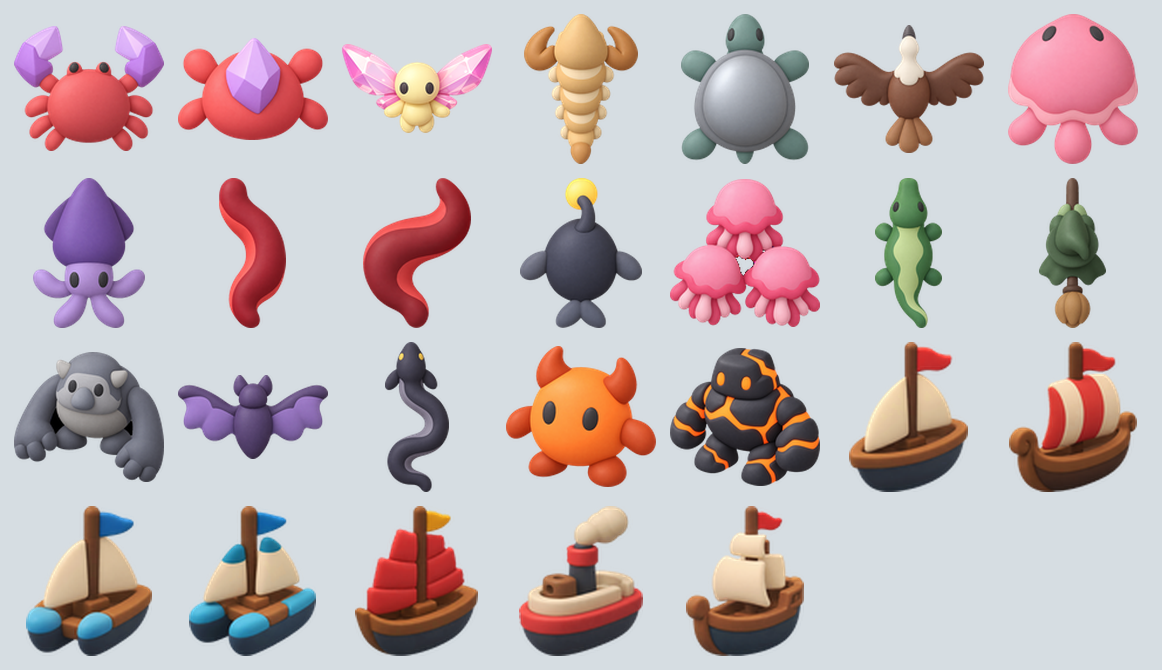
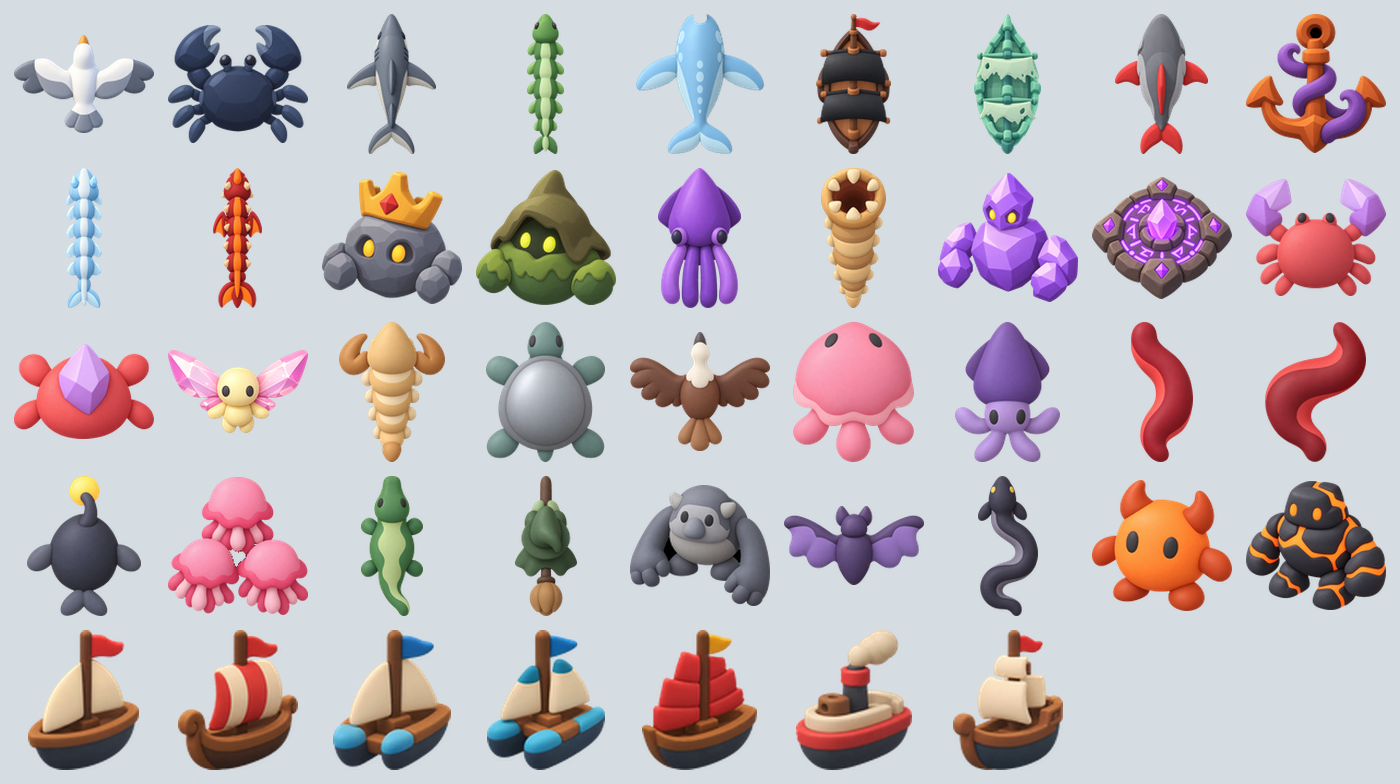
Art: G1/G3/G5, A1 redo, first props for six biomes; baseline sheets rebuilt
Claude-Session: https://claude.ai/code/session_01FCp3PwgtusK1H34abZ7FvQ

diff --git a/tools/art-inventory/inv_template.html b/tools/art-inventory/inv_template.html
@@ -704,8 +704,7 @@ One image with 5 views of the same ship in a row, same size, evenly spaced, not 
 const BATCHES = [
  ['A', 'Bosses (A1-A12 done; flying wyrm left)', 'high', [
   'A6b The Caldera Wyrm, flying (TOP-DOWN): the same wyrm seen from directly above, body straight, two big bat wings spread flat out to the sides at their widest'], 'unique'],
- ['G', 'Creatures (G10-G28 done; G1-G4 done; these 5 left)', 'high', [
-  'G5 Frost Narwhal (TOP-DOWN): a pale blue whale seen from directly above: a smooth bean body, one long straight white tusk pointing out of the top, two flippers out to the sides, a tail fluke at the bottom',
+ ['G', 'Creatures (G1-G5, G10-G28 done; these 4 left)', 'high', [
   'G6 Ice Golem (FRONT): a squat golem built from big pale blue ice blocks: one body block, one head block, two block fists, two small dark eyes',
   'G7 Frost Wisp (FRONT): a round pale blue flame with a curling tip and two dark eyes',
   'G8 Siren (FRONT): a mermaid sitting on a round grey rock, long teal hair, her green tail curled round the rock',
@@ -897,32 +896,25 @@ const BATCHES = [
   'Q13 Lightning bolt (FLAT): one chunky yellow zigzag bolt from top to bottom',
   'Q14 Wind streak (3-SLICE): a long thin white wind line, curled into a small loop at the right end (gales)',
   'Q15 Wave crest (3-SLICE): a long chunky white-and-blue wave crest, plain along its length, curled over at both ends (rogue wave)'], 'kit'],
- ['P', 'Island props (P1-P4 done)', 'medium', [
-  'P5a Volcanic prop (FRONT): a charred black tree stump',
+ ['P', 'Island props (P1-P4 done, plus P5a P6a P7a P8b P9a P10a P11a)', 'medium', [
   'P5b Volcanic prop (FRONT): a black rock with bright orange cracks',
   'P5c Volcanic prop (FRONT): a plain black boulder',
   'P5d Volcanic prop (FRONT): a small grey smoke vent',
-  'P6a Caverns prop (FRONT): a stalagmite',
   'P6b Caverns prop (FRONT): a cluster of three mushrooms with bright cyan caps',
   'P6c Caverns prop (FRONT): a bright teal coral',
   'P6d Caverns prop (FRONT): a purple boulder',
-  'P7a Mangrove prop (FRONT): a mangrove tree on stilt roots',
   'P7b Mangrove prop (FRONT): a round lily pad with one flower',
   'P7c Mangrove prop (FRONT): a reed clump',
   'P7d Mangrove prop (FRONT): a mossy log',
   'P8a Abyss prop (FRONT): a clump of red-tipped tube worms',
-  'P8b Abyss prop (FRONT): an anemone',
   'P8c Abyss prop (FRONT): a dark navy boulder',
   'P8d Abyss prop (FRONT): a tall bright pink sea fan',
-  'P9a Bone Sands prop (FRONT): a round cactus with two arms',
   'P9b Bone Sands prop (FRONT): a pair of curved rib bones sticking up',
   'P9c Bone Sands prop (FRONT): a small skull',
   'P9d Bone Sands prop (FRONT): a sandstone rock',
-  'P10a Crystal prop (FRONT): a cluster of lilac crystals',
   'P10b Crystal prop (FRONT): a pink boulder',
   'P10c Crystal prop (FRONT): a round lilac shrub',
   'P10d Crystal prop (FRONT): one tall crystal shard',
-  'P11a Harbour prop (FRONT): a short wooden jetty with a lantern post',
   'P11b Harbour prop (FRONT): a grey rock cluster',
   'P11c Harbour prop (FRONT): a red buoy',
   'P11d Harbour prop (FRONT): a green buoy',

diff --git a/tools/art-inventory/build_inv.py b/tools/art-inventory/build_inv.py
@@ -93,7 +93,7 @@ SIMPLE={'Sea-glass gem (1 XP)','Sea-glass gem (5 XP)','Sea-glass gem (25 XP)','A
  'Charm Shrine','Tower Yard','Shipyard','Armory','Workshop','Faction Hall',
  'Crystal Crab','Shard Crab','Prism Sprite','Sand Wyrm','Mirror Tortoise','Bone Vulture','Drift Jelly','Ink Squid','Bog Leech','Leech Swarm',
  'Anglerfish','Jelly Bloom','Bayou Gator','Bog Witch','Deep Troll','Cave Bat','Cave Bats','Stalker Eel','Ember Imp','Magma Golem',
- 'Black Gale','The Black Gale','Drowned Admiral','The Drowned Admiral','Bloodfin Matriarch','The Bloodfin Matriarch',"Kraken's Anchor","The Kraken's Anchor",'Frost Leviathan','The Frost Leviathan','Caldera Wyrm','The Caldera Wyrm','Hollow King','The Hollow King','Old Mother Mire','The Old Mother Mire','Deep Mother','The Deep Mother','Dunemaw','The Dunemaw','Prism Colossus','The Prism Colossus','Warding Seal','The Warding Seal','Gullswarm Harpy','The Gullswarm Harpy','Deep Crawler','The Deep Crawler','Reef Shark','The Reef Shark','Sea Serpent','The Sea Serpent'}
+ 'Black Gale','The Black Gale','Drowned Admiral','The Drowned Admiral','Bloodfin Matriarch','The Bloodfin Matriarch',"Kraken's Anchor","The Kraken's Anchor",'Frost Leviathan','The Frost Leviathan','Caldera Wyrm','The Caldera Wyrm','Hollow King','The Hollow King','Old Mother Mire','The Old Mother Mire','Deep Mother','The Deep Mother','Dunemaw','The Dunemaw','Prism Colossus','The Prism Colossus','Warding Seal','The Warding Seal','Gullswarm Harpy','The Gullswarm Harpy','Deep Crawler','The Deep Crawler','Reef Shark','The Reef Shark','Sea Serpent','The Sea Serpent','Frost Narwhal','The Frost Narwhal'}
 # 2026-10-09: owner judged every creature and boss too detailed next to the simple ships/buildings: all redo.
 SIMPLIFY_LOW={'Heart of the Reef'}
 TOY_PRI={'Player ships':'high','Harbour buildings':'high','Bosses':'high','Enemies':'high','Reef Defence':'medium'}

diff --git a/tools/key-creature.py b/tools/key-creature.py
@@ -2,12 +2,15 @@
 # alpha). Handles real alpha, white or flat-colour backgrounds and painted
 # checkerboards; keeps the largest shape, fills holes, soft 1px edge.
 # usage: python3 tools/key-creature.py <name> <image> [<name> <image>]...
+#        --size=<px> (default 128), --out=<dir> (default assets/creatures)
 #        add --white=<min> to tune the white-background cut (default 200)
 import sys, os, numpy as np
 from PIL import Image
 from scipy import ndimage
 OUT=os.path.join(os.path.dirname(os.path.abspath(__file__)),'..','assets','creatures')
 args=[a for a in sys.argv[1:] if not a.startswith('--')]
+SIZE=int(next((a.split('=')[1] for a in sys.argv if a.startswith('--size=')),128))
+OUT=next((a.split('=',1)[1] for a in sys.argv if a.startswith('--out=')),OUT)
 WHITE=int(next((a.split('=')[1] for a in sys.argv if a.startswith('--white=')),200))
 def key(src):
     im=Image.open(src); a=np.asarray(im.convert('RGBA')).astype(float); rgb=a[...,:3]
@@ -29,6 +32,6 @@ def key(src):
     alpha=ndimage.gaussian_filter(core.astype(float),0.8)
     out=np.dstack([rgb,alpha*255]).astype(np.uint8)
     ys,xs=np.where(alpha>0.05); img=Image.fromarray(out).crop((xs.min(),ys.min(),xs.max()+1,ys.max()+1))
-    s=128/max(img.size); return img.resize((round(img.width*s),round(img.height*s)),Image.LANCZOS)
+    s=SIZE/max(img.size); return img.resize((round(img.width*s),round(img.height*s)),Image.LANCZOS)
 for i in range(0,len(args),2):
     img=key(args[i+1]); img.save(os.path.join(OUT,args[i]+'.png'),optimize=True); print(args[i],img.size)

diff --git a/tools/art-inventory/make-baseline-sheets.py b/tools/art-inventory/make-baseline-sheets.py
@@ -18,11 +18,11 @@ def sheet(items,cell,cols,name,pad=14):
         im=fit(im,cell); x=pad+(i%cols)*(cell+pad)+(cell-im.width)//2; y=pad+(i//cols)*(cell+pad)+(cell-im.height)//2
         c.alpha_composite(im,(x,y))
     c.convert('RGB').save(out+'/'+name,optimize=True); print(name,W,H)
-cre='crystal_crab shard_crab prism_sprite sand_wyrm mirror_tortoise bone_vulture drift_jelly ink_squid bog_leech leech_swarm anglerfish jelly_bloom bayou_gator bog_witch deep_troll cave_bat stalker_eel ember_imp magma_golem'.split()
+cre='gullswarm_harpy deep_crawler reef_shark sea_serpent frost_narwhal black_gale drowned_admiral bloodfin_matriarch krakens_anchor frost_leviathan caldera_wyrm hollow_king mire_mother deep_mother dunemaw prism_colossus warding_seal crystal_crab shard_crab prism_sprite sand_wyrm mirror_tortoise bone_vulture drift_jelly ink_squid bog_leech leech_swarm anglerfish jelly_bloom bayou_gator bog_witch deep_troll cave_bat stalker_eel ember_imp magma_golem'.split()
 items=[Image.open(R+'creatures/'+n+'.png') for n in cre]
 for h,f in frames.items():
     a=Image.open(R+'ships/'+h+'.png'); x,y,w,hh=f[:4]; items.append(a.crop((x,y,x+w,y+hh)))
-sheet(items,150,7,'style-creatures-ships.png')
+sheet(items,140,9,'style-creatures-ships.png')
 import os
 w=[Image.open(R+'buildings/'+n) for n in sorted(os.listdir(R+'buildings'))]
 isl=['tropical','cliff_cove','glacial','shipwreck','volcanic','caverns','mangrove','abyss','bone_sands','crystal']

diff --git a/CLAUDE.md b/CLAUDE.md
@@ -2350,6 +2350,18 @@ quests/NPCs/dialogue, cosmetics, audio beyond hooks, any backend.
   real-alpha wyrm (not the checkerboard). Left open: A6b (flying wyrm,
   still the older art) and G5-G9. Catalogue now 255 codes.
 
+- **Second art drop, same day:** better G1 gull (real alpha, no glow), a
+  true shark for G3 (the first read as a whale), G5 Frost Narwhal (keyed
+  from a checkerboard), a cleaner A1 Black Gale. First props for the six
+  newer biomes, one each, wired in `data/props.mjs`: volcanic stump,
+  caverns stalagmite, mangrove tree, abyss anemone, bone-sands cactus,
+  crystal cluster (screenshotted in play). `assets/props/harbour_jetty.png`
+  (P11a) is saved but not placed: harbour decor is still code-drawn. The
+  re-sent tropical/cliff/glacial/shipwreck prop sheets and rock islets
+  repeat art already in the game, so they weren't used. `key-creature.py`
+  takes `--size=` and `--out=`. Baseline sheets rebuilt with the bosses,
+  G1-G5 and the new props. Catalogue: 247 codes.
+
 ## Decisions log" heading in this file. Short landscape: Continue
   no longer wraps, and the mini-map hides while a voyage is saved so the
   New Voyage / Defend row fits.
